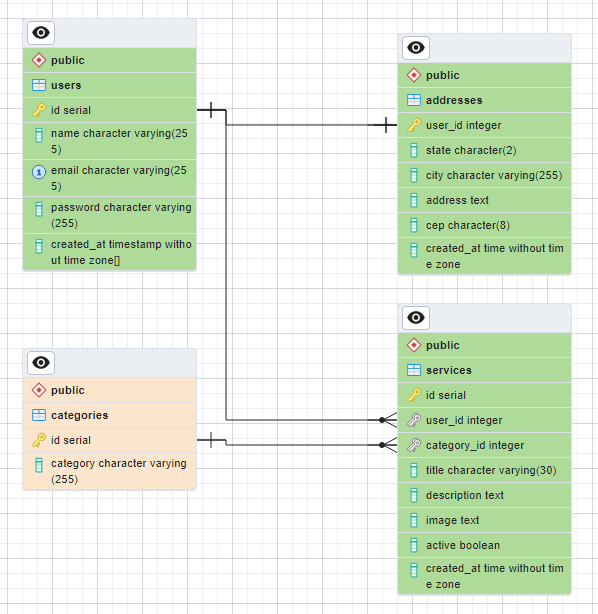
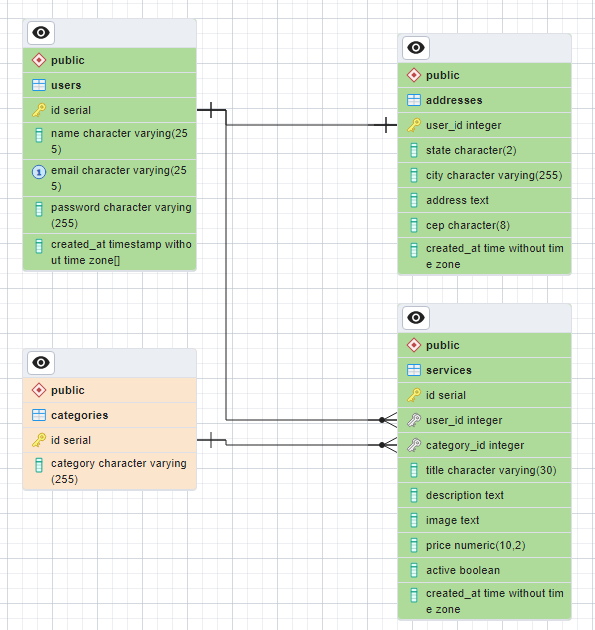
feat: add price to services

diff --git a/src/repository/services.repository.js b/src/repository/services.repository.js
@@ -1,31 +1,32 @@
 import { db } from "../database/database.connection.js";
 
 export async function createService(userId, service) {
-    const { categoryId, title, description, image } = service;
+    const { categoryId, title, description, image, price } = service;
 
     await db.query(`
-        INSERT INTO services ("user_id", "category_id" , "title", "description", "image") 
-        VALUES ( $1, $2, $3, $4, $5 )
+        INSERT INTO services ("user_id", "category_id" , "title", "description", "image", "price") 
+        VALUES ( $1, $2, $3, $4, $5, $6 )
     `, [
         userId,
         categoryId,
         title,
         description,
         image,
+        price,
     ]);
 }
 
 export async function getServices(state, limit, category) {
     let query = `
         SELECT 
-            s.id, s.title, c.category, s.description, s.image, 
+            s.id, s.title, c.category, s.description, s.image, s.price,
             u.name as provider, u.email as contact, 
             a.state as state, a.city as city
         FROM services s
         INNER JOIN users u ON s.user_id = u.id
         LEFT JOIN categories c ON s.category_id = c.id
-        LEFT JOIN addresses a ON s.user_id = a.user_id
-        WHERE s.active = true
+        LEFT JOIN addresses a ON u.id = a.user_id
+        WHERE s.active = true;
     `;
 
     let conditions = [];
@@ -56,7 +57,7 @@ export async function getServices(state, limit, category) {
 
 export async function getServicesById(id) {
     const services = await db.query(`
-        SELECT s.id, c.category, s.title, s.description, s.image, s.active 
+        SELECT s.id, c.category, s.title, s.description, s.image, s.price, s.active 
         FROM services s
         LEFT JOIN categories c ON s.category_id = c.id 
         WHERE user_id = $1`, 

diff --git a/src/schemas/services.schemas.js b/src/schemas/services.schemas.js
@@ -5,4 +5,5 @@ export const serviceSchema = joi.object({
     title: joi.string().max(30).required(),
     description: joi.string().required(),
     image: joi.string().uri().required(),
+    price: joi.number().min(0).required(),
 });
